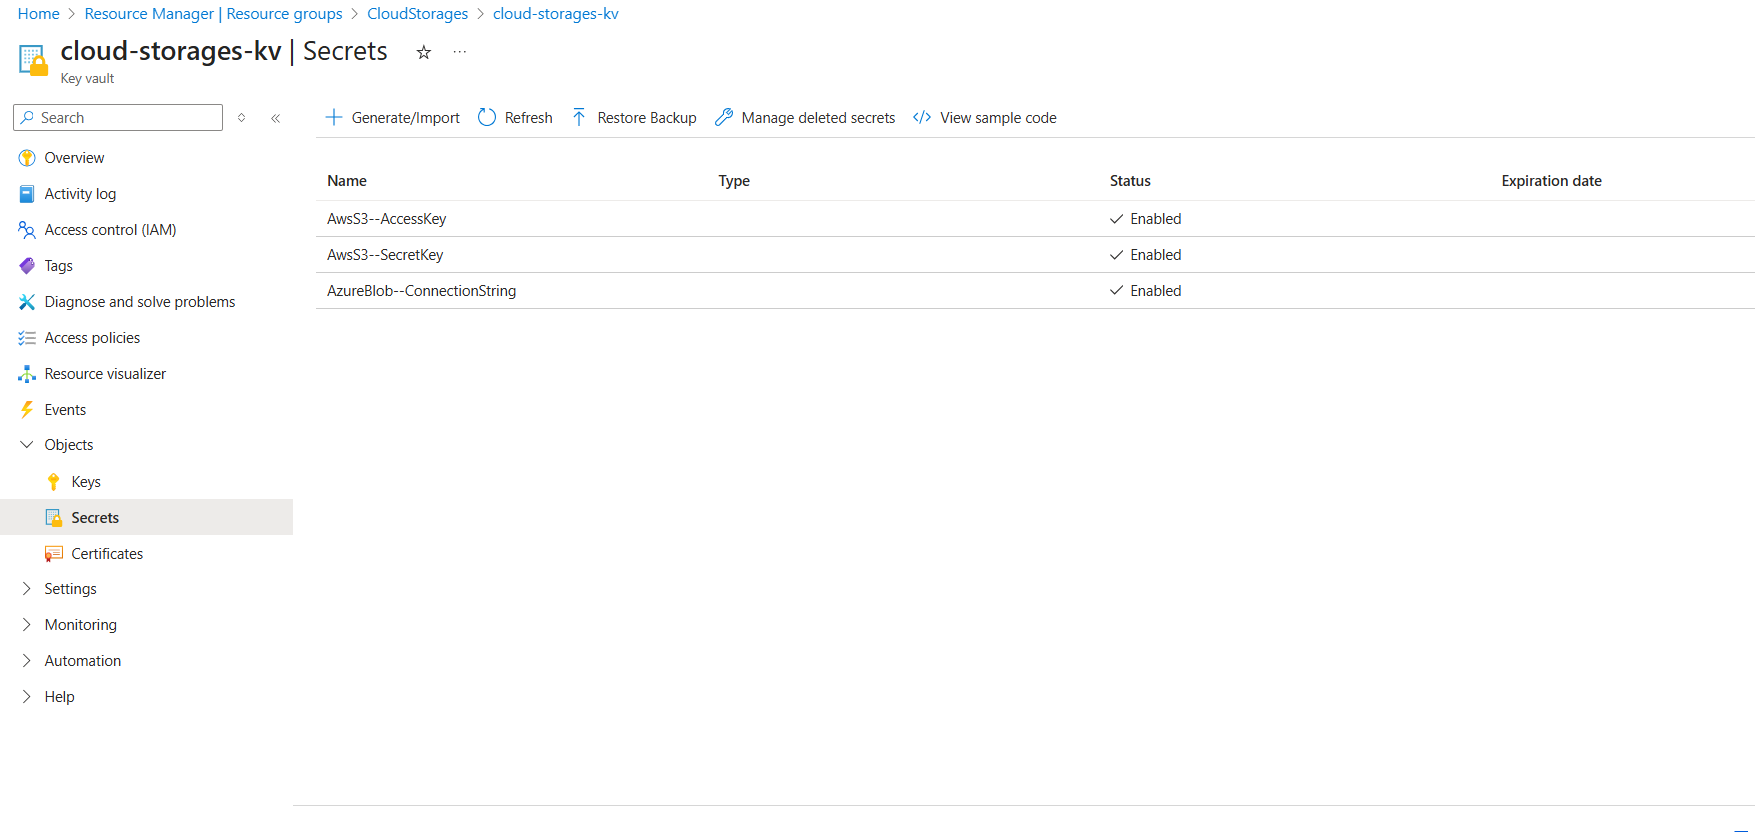
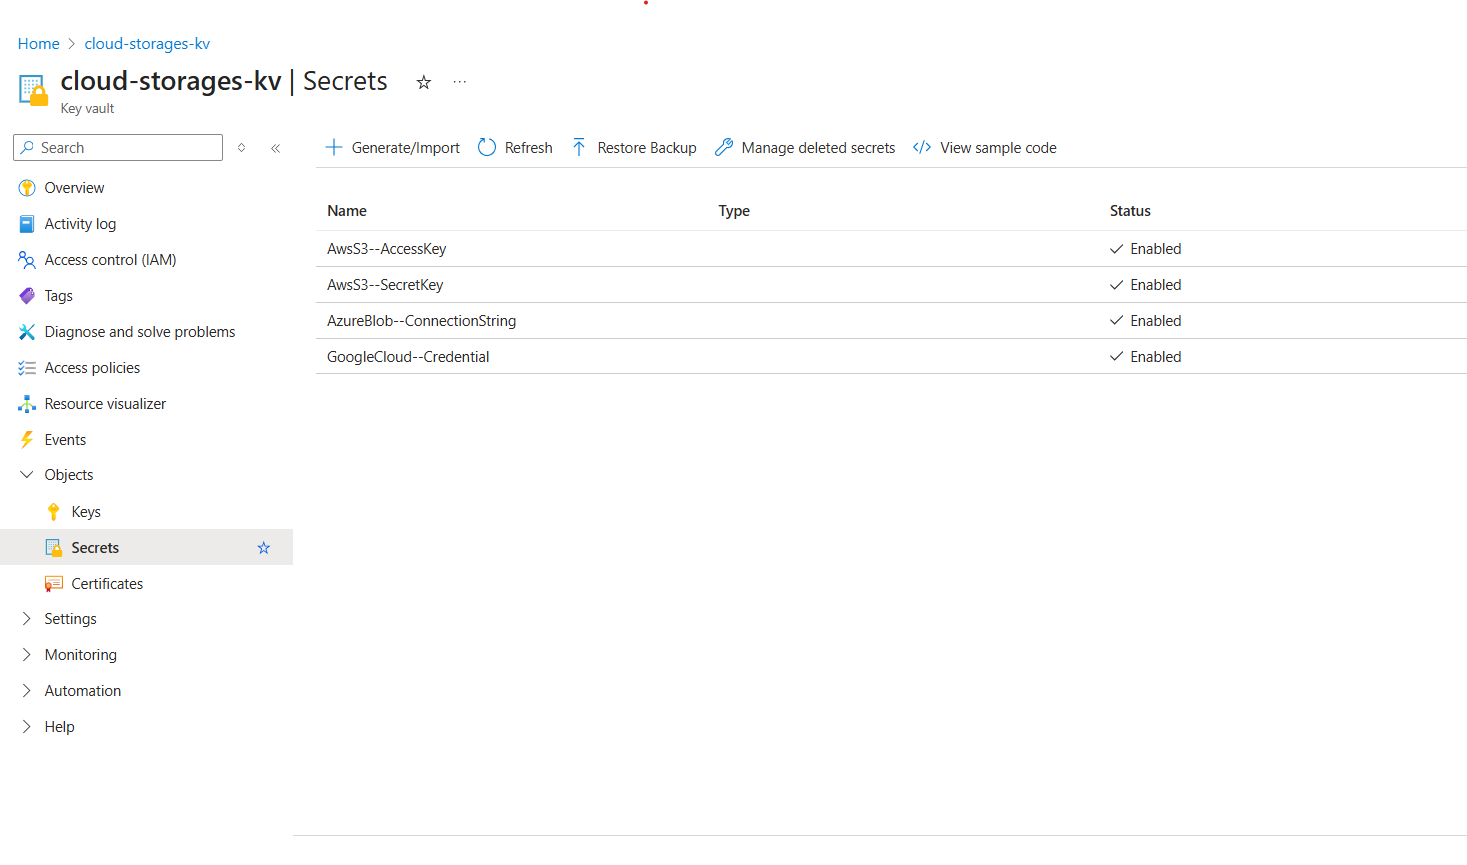
Add Google Cloud Storage integration with config, service, controller, and docs

diff --git a/CloudStorages.Server/Services/GoogleCloudStorageService.cs b/CloudStorages.Server/Services/GoogleCloudStorageService.cs
@@ -1,0 +1,215 @@
+using CloudStorages.Server.Configuration;
+using CloudStorages.Server.Dtos.Requests;
+using CloudStorages.Server.Dtos.Responses;
+using CloudStorages.Server.Utils;
+using Google.Apis.Auth.OAuth2;
+using Google.Apis.Storage.v1;
+using Google.Apis.Storage.v1.Data;
+using Google.Cloud.Storage.V1;
+using Microsoft.AspNetCore.Mvc;
+using Microsoft.Extensions.Options;
+using FileInfo = CloudStorages.Server.Dtos.Responses.FileInfo;
+
+namespace CloudStorages.Server.Services
+{
+    public class GoogleCloudStorageService : IGoogleCloudStorageService
+    {
+        private readonly StorageClient _storageClient;
+        private readonly UrlSigner _urlSigner;
+        private readonly string _bucketName;
+        private readonly string _projectId;
+
+        public GoogleCloudStorageService(IOptions<GoogleCloudSettings> options)
+        {
+            var settings = options.Value;
+            _bucketName = settings.BucketName;
+            _projectId = settings.ProjectId;
+
+            var credential = GoogleCredential
+              .FromJson(settings.Credential)
+              .CreateScoped(StorageService.Scope.CloudPlatform);
+
+            _storageClient = StorageClient.Create(credential);
+            _urlSigner = UrlSigner.FromCredential(credential);
+        }
+
+
+        public GetUploadUrlResponse GetUploadUrl(GetUploadUrlRequest request)
+        {
+            var objectKey = PathHelper.BuildKey(request.Prefix);
+
+            var url = _urlSigner.Sign(
+                _bucketName,
+                objectKey,
+                TimeSpan.FromMinutes(request.ExpiresInMinutes),
+                HttpMethod.Put
+
+            );
+
+            return new GetUploadUrlResponse(objectKey, url);
+        }
+
+
+
+        public async Task<List<UploadFileResponse>> UploadFilesAsync(UploadFilesRequest request)
+        {
+            var results = new List<UploadFileResponse>();
+
+            foreach (var file in request.Files)
+            {
+                var objectKey = PathHelper.BuildKey(request.Prefix);
+
+                await using var stream = file.OpenReadStream();
+
+                var gcsObject = new Google.Apis.Storage.v1.Data.Object
+                {
+                    Bucket = _bucketName,
+                    Name = objectKey,// mặc định ghi đè
+                    ContentType = string.IsNullOrEmpty(file.ContentType) ? "application/octet-stream" : file.ContentType,
+                    Metadata = new Dictionary<string, string> { { "fileName", Uri.EscapeDataString(file.FileName) } }
+                };
+
+                var options = new UploadObjectOptions
+                {
+                    // IfGenerationMatch = 0, // file đã tồn tại → throw 409 conflict
+                    ChunkSize = 10 * 1024 * 1024 // upload file 10 MB chunk
+                };
+
+                var uploaded = await _storageClient.UploadObjectAsync(gcsObject, stream, options);
+
+                results.Add(new UploadFileResponse
+                {
+                    Key = objectKey,
+                    FileName = file.FileName
+                });
+            }
+
+            return results;
+        }
+
+
+
+
+        public string GetDownloadUrl(GetDownloadUrlRequest request)
+        {
+            return _urlSigner.Sign(
+                _bucketName,
+                request.FileKey,
+                TimeSpan.FromMinutes(request.ExpiresInMinutes),
+                HttpMethod.Get
+            );
+        }
+
+
+        public async Task<FileStreamResult> DownloadFileAsync(string fileKey)
+        {
+            var memory = new MemoryStream();
+
+            var obj = await _storageClient.GetObjectAsync(_bucketName, fileKey);
+
+            await _storageClient.DownloadObjectAsync(_bucketName, fileKey, memory);
+            memory.Position = 0;
+
+            var fileName = obj.Metadata != null &&
+                           obj.Metadata.TryGetValue("fileName", out var metaName)
+                           ? Uri.UnescapeDataString(metaName)
+                           : "unknown";
+
+            return new FileStreamResult(memory, obj.ContentType ?? "application/octet-stream")
+            {
+                FileDownloadName = fileName
+            };
+        }
+
+
+        public async Task<GetAllFilesResponse> GetAllFilesAsync(GetAllFilesRequest request)
+        {
+            var pageSize = request.MaxKeys ?? 20;
+            var page = await _storageClient.ListObjectsAsync(
+                   _bucketName,
+                   request.Prefix,
+                   new ListObjectsOptions { PageToken = request.ContinuationToken }
+               ).ReadPageAsync(request.ContinuationToken==null?++pageSize:pageSize);   
+
+
+            var files = page
+                .Where(o => o.Size > 0)          
+                .Select(obj => new FileInfo
+                {
+                    Key = obj.Name,
+                    FileName = obj.Metadata != null &&
+                               obj.Metadata.TryGetValue("fileName", out var metaName)
+                                   ? Uri.UnescapeDataString(metaName)
+                                   : "Unnamed (no metadata)",
+                    Size = (long?)obj.Size,
+                    LastModified = obj.UpdatedDateTimeOffset?.UtcDateTime
+                })
+                .ToList();
+
+            return new GetAllFilesResponse
+            {
+                Files = files,
+                ContinuationToken = page.NextPageToken,
+                IsTruncated = !string.IsNullOrEmpty(page.NextPageToken)
+            };
+        }
+
+
+
+        public async Task DeleteFileAsync(string fileKey)
+        {
+            await _storageClient.DeleteObjectAsync(_bucketName, fileKey);
+        }
+
+        public async Task<bool> CreateBucketAsync(string bucketName)
+        {
+            await _storageClient.CreateBucketAsync(_projectId, new Bucket
+            {
+                Name = bucketName
+            });
+
+            return true;
+        }
+
+        public async Task<IEnumerable<ContainerResponse>> GetAllContainersAsync()
+        {
+            var list = new List<ContainerResponse>();
+
+            foreach (var bucket in _storageClient.ListBuckets(_projectId))
+            {
+                list.Add(new ContainerResponse { Name = bucket.Name });
+            }
+
+            return list;
+        }
+
+        public async Task<bool> DeleteContainerAsync(string containerName)
+        {
+            await _storageClient.DeleteBucketAsync(containerName);
+            return true;
+        }
+
+        public async Task<bool> CheckContainerExistsAsync(string containerName)
+        {
+            try
+            {
+                await _storageClient.GetBucketAsync(containerName);
+                return true;
+            }
+            catch
+            {
+                return false;
+            }
+        }
+
+        public async Task<bool> CreateContainerAsync(string containerName)
+        {
+            await _storageClient.CreateBucketAsync(_projectId, new Bucket
+            {
+                Name = containerName
+            });
+
+            return true;
+        }
+    }
+}

diff --git a/CloudStorages.Server/Program.cs b/CloudStorages.Server/Program.cs
@@ -63,6 +63,9 @@ builder.Services.Configure<AwsS3Settings>(
 builder.Services.Configure<AzureBlobSettings>
    (builder.Configuration.GetSection("AzureBlob"));
 
+builder.Services.Configure<GoogleCloudSettings>
+   (builder.Configuration.GetSection("GoogleCloud"));
+
 // Register Amazon S3 client
 builder.Services.AddSingleton<IAmazonS3>(sp =>
 {
@@ -83,6 +86,7 @@ builder.Services.AddSingleton(sp =>
 
 builder.Services.AddScoped<IAwsS3StorageService, AwsS3StorageService>();
 builder.Services.AddScoped<IAzureBlobStorageService, AzureBlobStorageService>();
+builder.Services.AddScoped<IGoogleCloudStorageService, GoogleCloudStorageService>();
 
 
 var app = builder.Build();

diff --git a/CloudStorages.Server/Controllers/GoogleCloudStorageController.cs b/CloudStorages.Server/Controllers/GoogleCloudStorageController.cs
@@ -1,0 +1,17 @@
+using CloudStorages.Server.Services;
+using Microsoft.AspNetCore.Http;
+using Microsoft.AspNetCore.Mvc;
+
+namespace CloudStorages.Server.Controllers
+{
+    [Route("api/google-cloud-storage")]
+    [ApiController]
+    public class GoogleCloudStorageController : StorageController<IGoogleCloudStorageService>
+    {
+
+        public GoogleCloudStorageController(IGoogleCloudStorageService storageService)
+            : base(storageService)
+        {
+        }
+    }
+}

diff --git a/CloudStorages.Server/Configuration/GoogleCloudSettings.cs b/CloudStorages.Server/Configuration/GoogleCloudSettings.cs
@@ -1,0 +1,10 @@
+namespace CloudStorages.Server.Configuration
+{
+    public class GoogleCloudSettings
+    {
+        public string BucketName { get; set; }
+        public string ProjectId { get; set; }
+        public string Credential { get; set; }
+    }
+
+}

diff --git a/CloudStorages.Server/Services/IGoogleCloudStorageService.cs b/CloudStorages.Server/Services/IGoogleCloudStorageService.cs
@@ -1,0 +1,6 @@
+namespace CloudStorages.Server.Services
+{
+    public interface IGoogleCloudStorageService:IStorageService
+    {
+    }
+}

diff --git a/README.md b/README.md
@@ -13,9 +13,10 @@
   - [Restore and build](#3-restore-and-build)
   - [AWS setup](#4-aws-setup)
   - [Azure setup](#5-azure-setup)
-  - [Retrieve and store secrets](#6-retrieve-and-store-secrets-in-storage-providers)
-  - [Application configuration](#7-application-configuration)
-  - [Run the API](#8-run-the-api)
+  - [Google setup](#6-google-cloud-setup)
+  - [Retrieve and store secrets](#7-retrieve-and-store-secrets-in-storage-providers)
+  - [Application configuration](#8-application-configuration)
+  - [Run the API](#9-run-the-api)
 - [License](#-license)
 
 ## 📁 Project structure
@@ -159,7 +160,16 @@ cd CloudStorages.Server
   - Obtain clientId, tenantId and clientSecret
     ![Obtain App Registration Info ](docs/images/azure-app-registration-overview.png)
 
-### 6. Retrieve and store secrets in storage providers
+### 6. Google Cloud setup 
+ - Create project 
+    ![Create Project](docs/images/google-cloud-project.png)
+ - Create an Bucket
+    ![Create an Bucket](docs/images/google-cloud-bucket.png)
+ - Create an IAM service account** and generate a key to obtain credentials
+    ![Create IAM Service Account](docs/images/iam-service-account.png)
+    ![Create And Take Credential](docs/images/iam-service-account-key.png)
+     
+### 7. Retrieve and store secrets in storage providers
 - Retrieve secrets
 
   - **AWS S3**: retrieve the access key and secret key from AWS IAM. If the secret key has been lost, generate a new one.  
@@ -178,9 +188,10 @@ cd CloudStorages.Server
     AwsS3--AccessKey
     AwsS3--SecretKey
     AzureBlob--ConnectionString
+    GoogleCloud--Credential
     ```
 
-### 7. Application configuration
+### 8. Application configuration
 
 - Combine secrets with appsettings.json:
 
@@ -200,6 +211,10 @@ cd CloudStorages.Server
     "AzureBlob": {
       "AccountName": "cloudstoragessa",
       "ContainerName": "cloud-storages-container"
+    },
+    "GoogleCloud": {
+      "BucketName": "cloud-storages-bucket",
+      "ProjectId": "cloudstorages"
     }
   }
   ```
@@ -225,7 +240,7 @@ cd CloudStorages.Server
   builder.Configuration.AddAzureKeyVault(keyVaultUri, new DefaultAzureCredential());
   ```
 
-### 8. Run the API
+### 9. Run the API
 
 - Swagger UI will be available at:
   `https://localhost:<port>/swagger`
